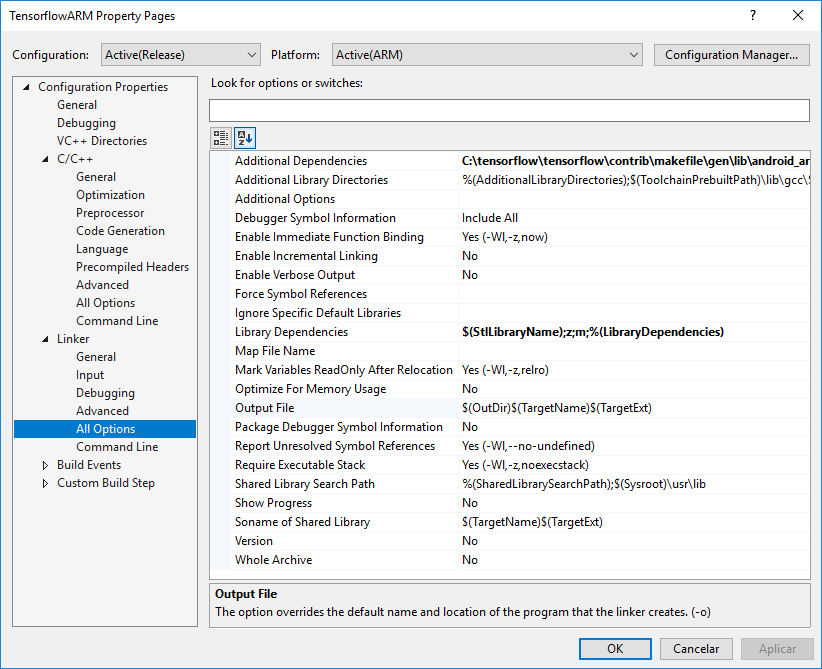
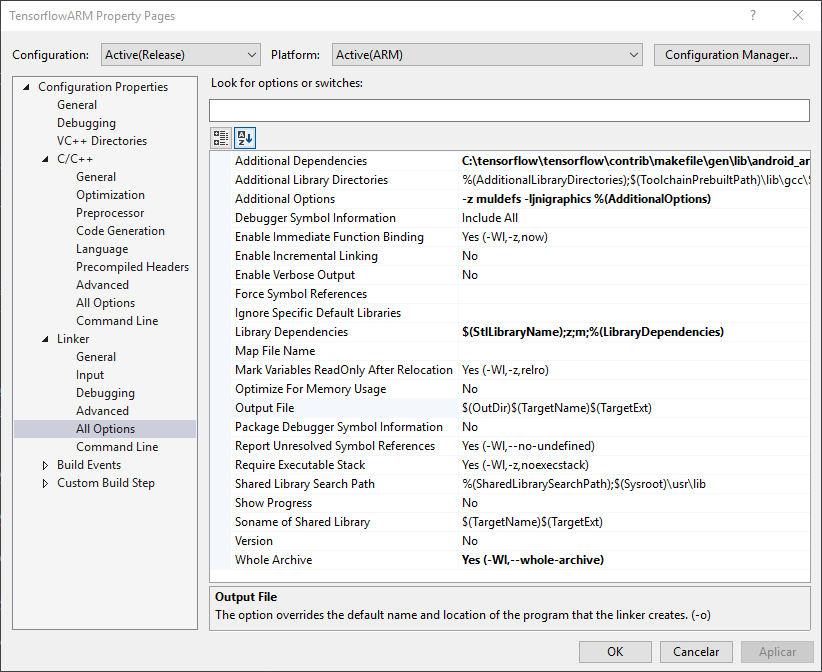
update instructions for Android build
- few modifications to linker options
- fix image loading for general options

diff --git a/v1.4/android/README.md b/v1.4/android/README.md
@@ -66,7 +66,6 @@ $ make -f tensorflow/contrib/makefile/Makefile TARGET=ANDROID
   C:\tensorflow\tensorflow\contrib\makefile\downloads\eigen
   C:\tensorflow\tensorflow\contrib\makefile\downloads\nsync\public
   C:\tensorflow
-  %(AdditionalIncludeDirectories)
   ```
 
 5. In Project Properties ➡ Linker ➡ All Options, make the following changes:
@@ -79,7 +78,6 @@ $ make -f tensorflow/contrib/makefile/Makefile TARGET=ANDROID
   C:\tensorflow\tensorflow\contrib\makefile\gen\protobuf_android\armeabi-v7a\lib\libprotobuf-lite.a
   C:\tensorflow\tensorflow\contrib\makefile\gen\protobuf_android\armeabi-v7a\lib\libprotoc.a
   C:\tensorflow\tensorflow\contrib\makefile\downloads\nsync\builds\armeabi-v7a.android.c++11\nsync.a
-  %(AdditionalDependencies)
   ```
 
 You are now ready to write your code to generate a library for an Android application.
